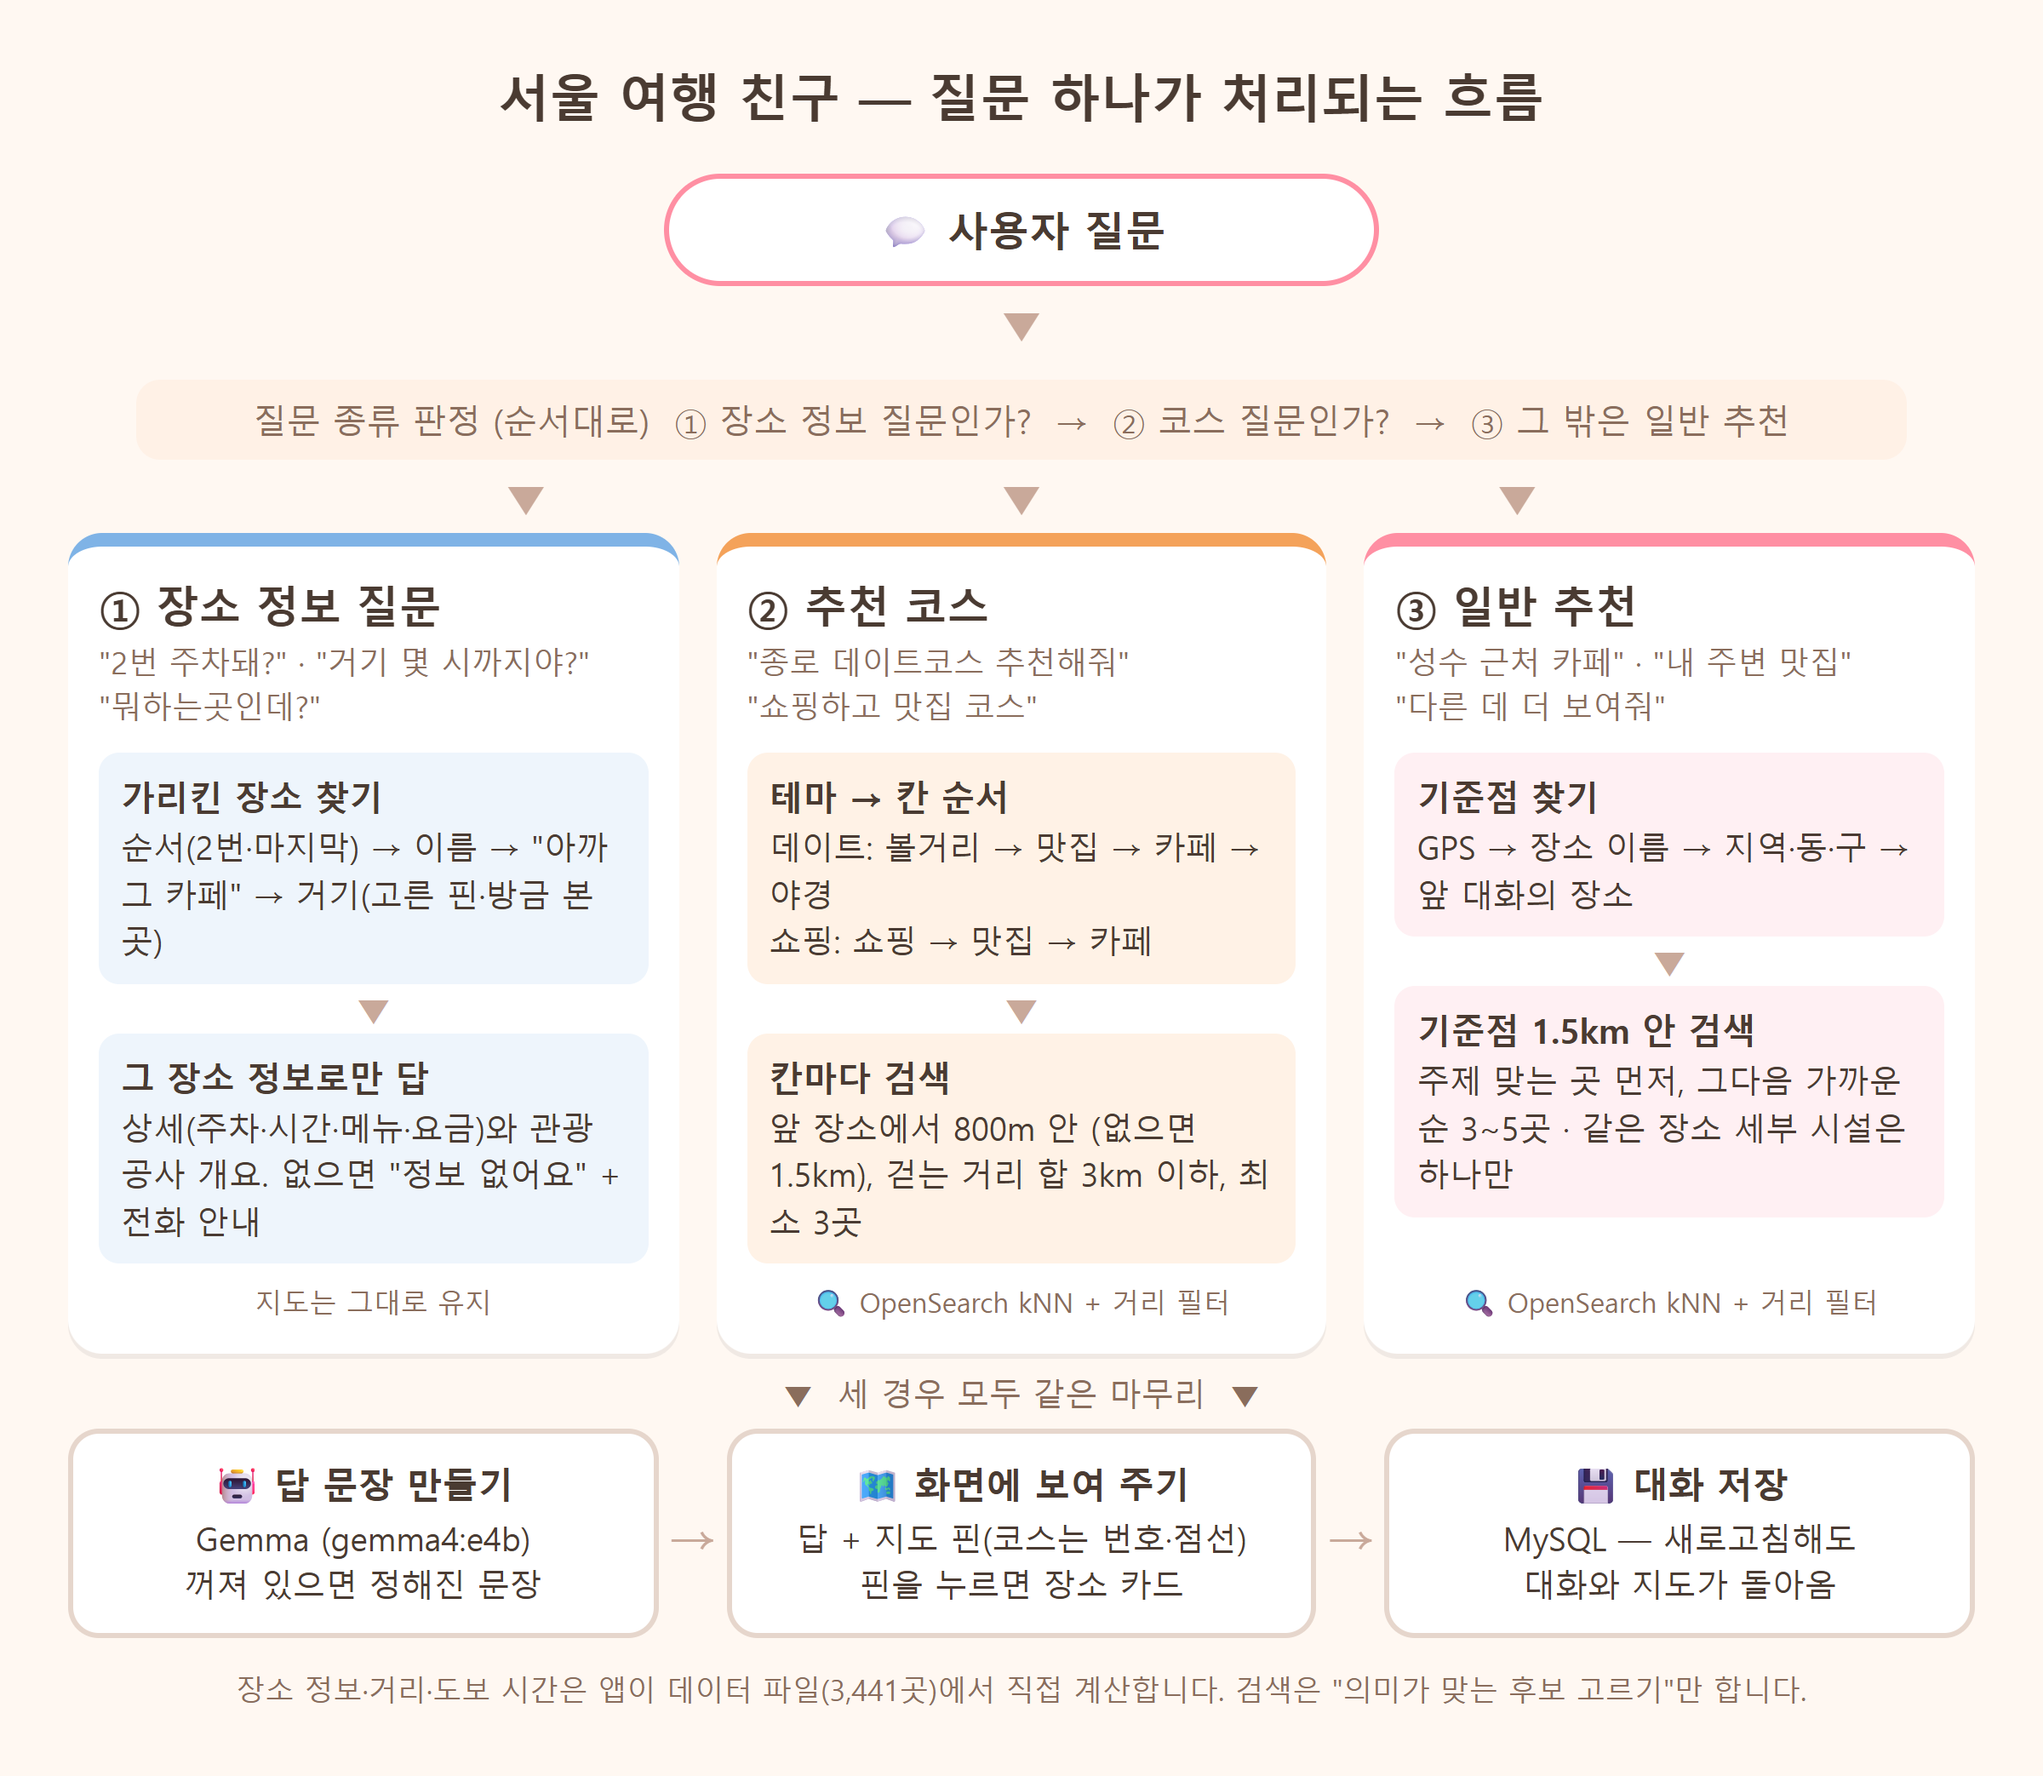
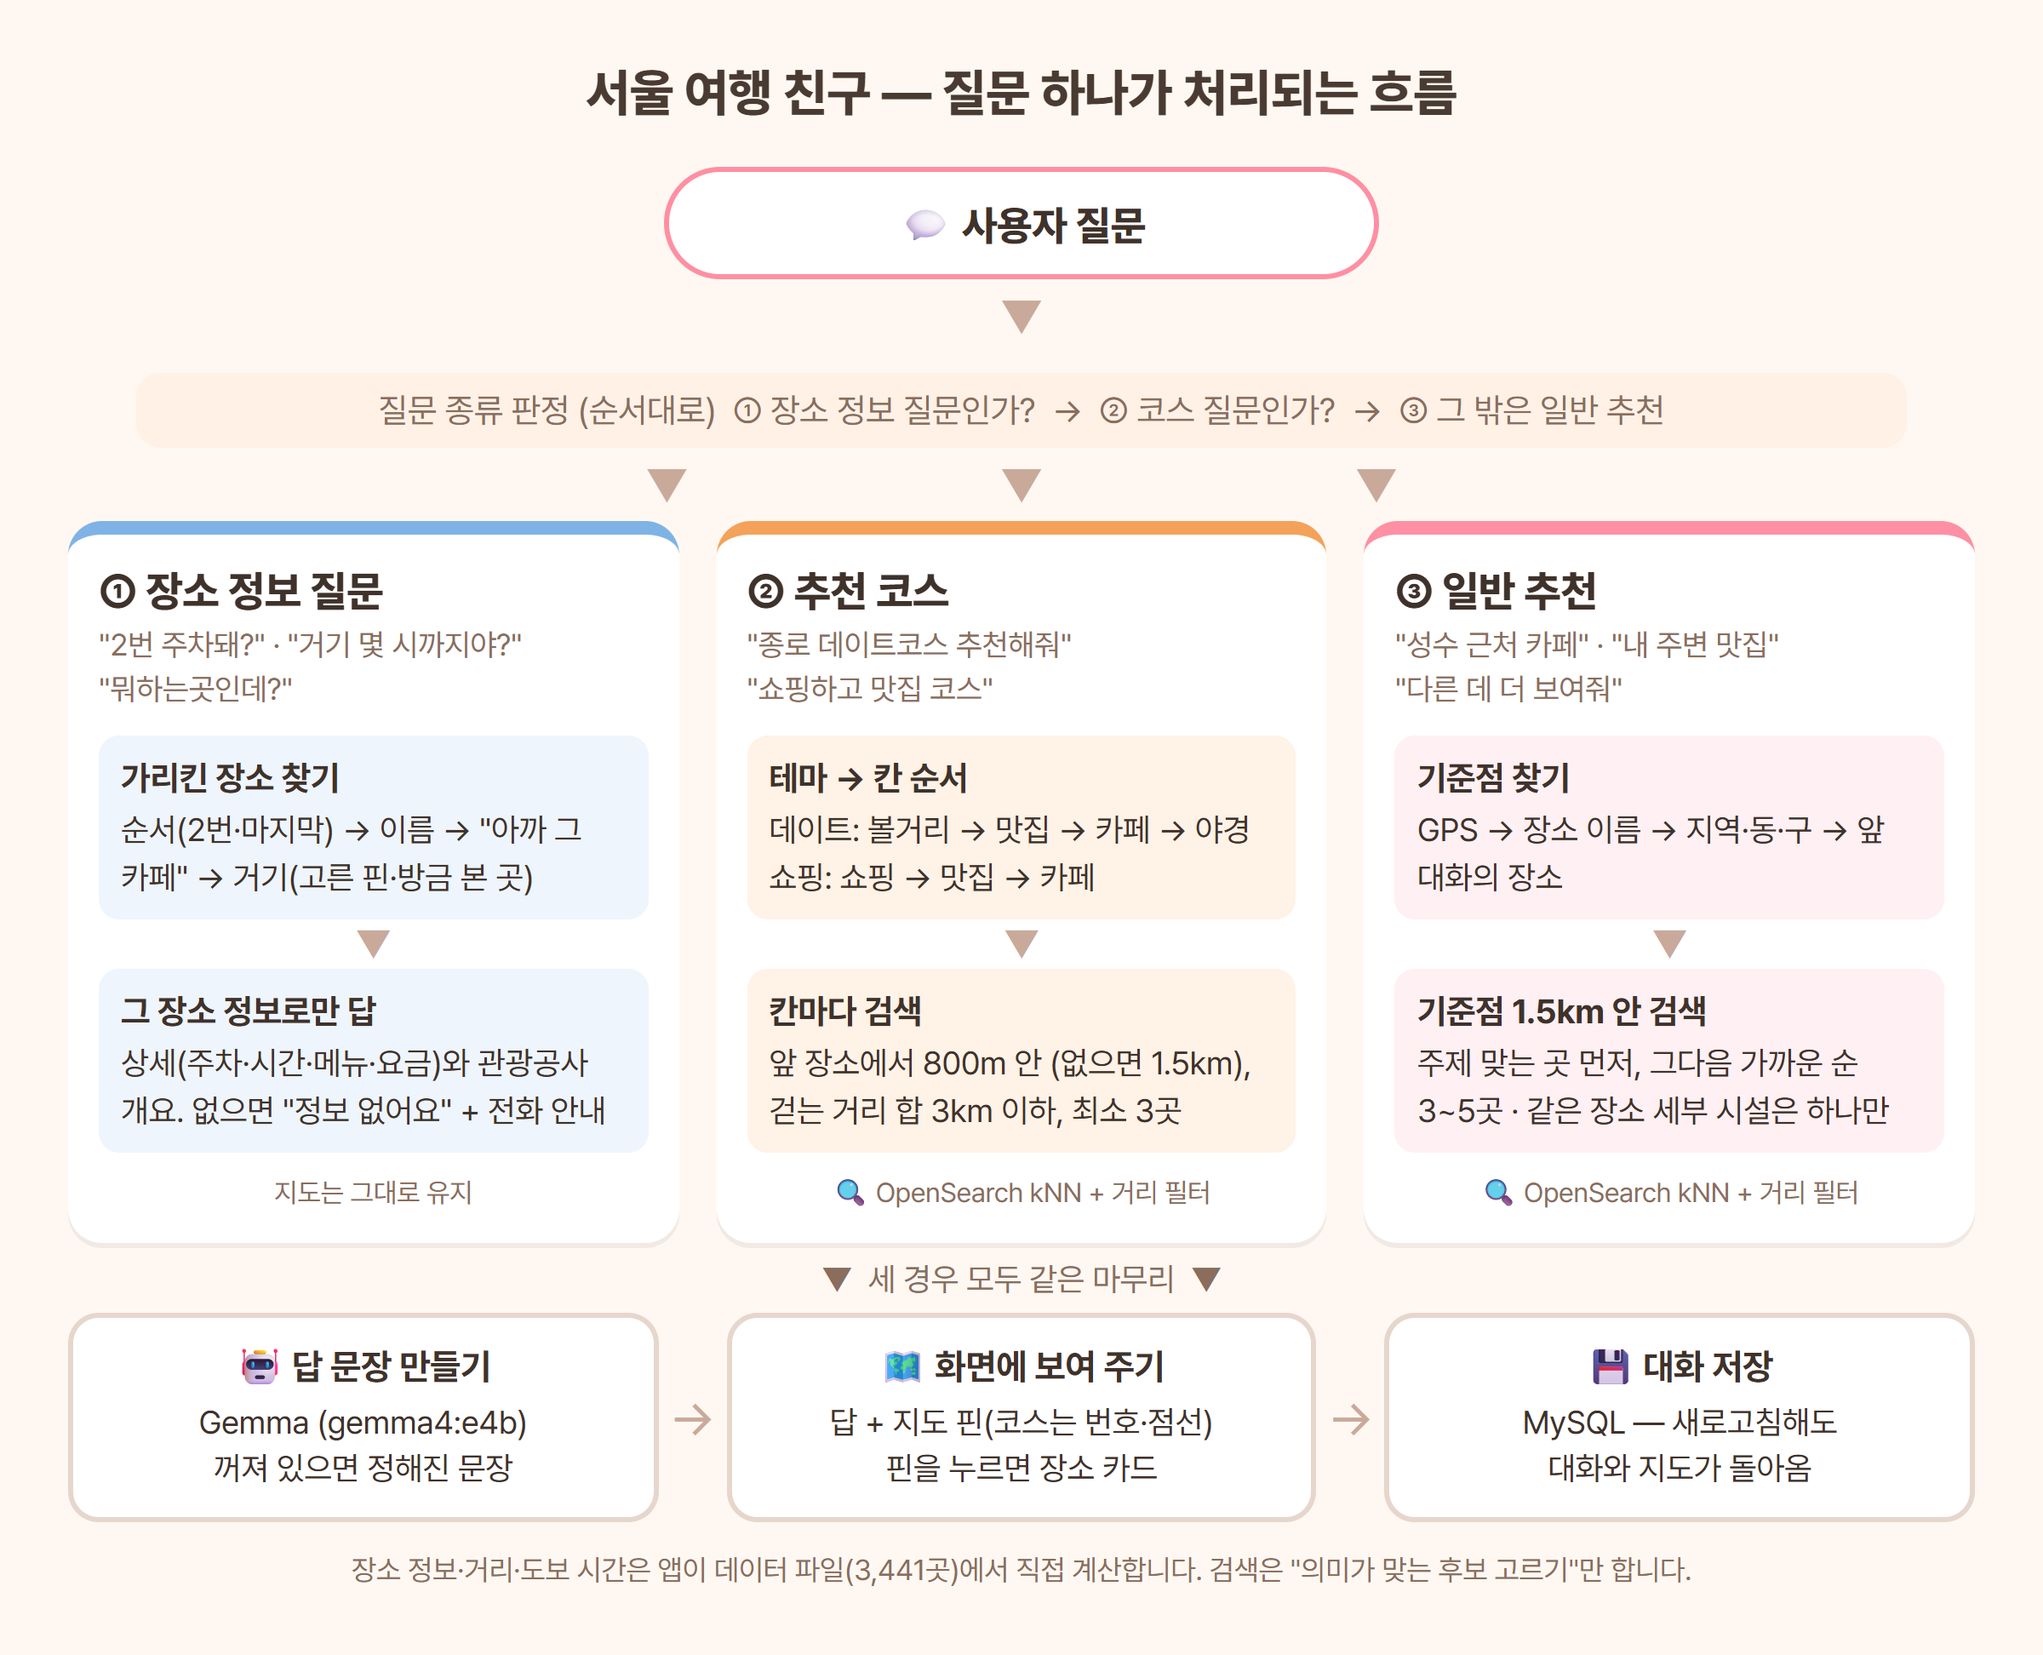
docs: README 시스템 구조도 그림으로, 두 그림 글꼴을 Pretendard(OFL)로

diff --git a/docs/images/architecture.html b/docs/images/architecture.html
@@ -1,0 +1,78 @@
+<!doctype html>
+<html lang="ko"><head><meta charset="utf-8">
+<!-- 글꼴: Pretendard (SIL Open Font License 1.1) -->
+<link rel="stylesheet" href="https://cdn.jsdelivr.net/gh/orioncactus/pretendard@v1.3.9/dist/web/static/pretendard.min.css">
+<style>
+  * { box-sizing: border-box; margin: 0; }
+  body { width: 1200px; padding: 36px 40px 40px; background: #fff8f2; font-family: "Pretendard", sans-serif; color: #3f322b; letter-spacing: -0.2px; word-break: keep-all; }
+  h1 { font-size: 30px; font-weight: 800; text-align: center; margin-bottom: 30px; }
+  .row { display: grid; grid-template-columns: 240px 100px 1fr 64px 300px; align-items: center; }
+  .card { background: #fff; border-radius: 20px; padding: 18px 20px; box-shadow: 0 3px 0 rgba(0,0,0,.05); }
+  .card h2 { font-size: 23px; font-weight: 800; margin-bottom: 6px; }
+  .card p { font-size: 17.5px; line-height: 1.5; color: #6b5548; }
+  .phone { border-top: 8px solid #ff8fa3; text-align: center; }
+  .phone .icon { font-size: 46px; margin: 4px 0 6px; }
+  .server { border-top: 8px solid #f4a25a; }
+  .mods { display: grid; grid-template-columns: 1fr 1fr; gap: 10px; margin-top: 12px; }
+  .mod { background: #fff2e6; border-radius: 12px; padding: 10px 12px; font-size: 16.5px; line-height: 1.4; }
+  .mod b { display: block; font-size: 17.5px; font-weight: 700; color: #3f322b; }
+  .mod code { font-family: "Pretendard", sans-serif; color: #b0703a; font-size: 14.5px; }
+  .arrow { text-align: center; color: #a8887a; font-size: 14px; font-weight: 600; line-height: 1.3; }
+  .arrow .a { font-size: 30px; color: #c9a99a; display: block; }
+  .stores { display: grid; gap: 14px; }
+  .store { background: #fff; border-radius: 16px; padding: 13px 16px; border-left: 8px solid #7fb3e6; box-shadow: 0 3px 0 rgba(0,0,0,.05); }
+  .store b { display: block; font-size: 20px; font-weight: 800; }
+  .store span { font-size: 16px; color: #6b5548; line-height: 1.45; }
+  .store.llm { border-left-color: #b39ddb; } .store.db { border-left-color: #8cc58c; }
+  .prep { margin-top: 34px; background: #fff; border: 3px dashed #e6d6cc; border-radius: 20px; padding: 18px 22px 20px; }
+  .prep h3 { font-size: 21px; font-weight: 800; margin-bottom: 12px; }
+  .prep h3 small { font-size: 16px; font-weight: 500; color: #8a6d5c; margin-left: 6px; }
+  .flow { display: grid; grid-template-columns: 1fr 34px 1fr 34px 1fr 34px 1fr; align-items: center; }
+  .chip { background: #f7f1ec; border-radius: 12px; padding: 11px 12px; text-align: center; font-size: 16.5px; line-height: 1.4; }
+  .chip b { display: block; font-size: 18px; font-weight: 700; }
+  .to { text-align: center; font-size: 24px; color: #c9a99a; }
+  .note { margin-top: 18px; font-size: 16.5px; color: #8a6d5c; text-align: center; }
+</style></head>
+<body>
+  <h1>서울 여행 친구 — 시스템 구조</h1>
+  <div class="row">
+    <div class="card phone">
+      <h2>휴대폰 브라우저</h2>
+      <div class="icon">📱</div>
+      <p>HTML · CSS · JavaScript<br>일러스트 지도 · 장소 카드<br>📍 GPS 위치</p>
+    </div>
+    <div class="arrow"><span class="a">⇄</span>/api/chat<br>/api/history</div>
+    <div class="card server">
+      <h2>FastAPI 서버</h2>
+      <p>질문 한 턴을 받아 판정 → 검색 → 답 → 저장</p>
+      <div class="mods">
+        <div class="mod"><b>대화 흐름</b>질문 종류 판정 <code>chat.py</code></div>
+        <div class="mod"><b>이어 묻기 해석</b>2번·거기·아까 그 카페 <code>dialog.py</code></div>
+        <div class="mod"><b>기준점 · 추천</b>GPS·장소·지역·구, 1.5km <code>center.py · recommend.py</code></div>
+        <div class="mod"><b>추천 코스</b>칸 순서·800m 동선 <code>course.py</code></div>
+        <div class="mod"><b>임베딩</b>ko-sroberta-multitask (768차원)</div>
+        <div class="mod"><b>장소 카탈로그</b>3,441곳 정보·좌표 (메모리)</div>
+      </div>
+    </div>
+    <div class="arrow"><span class="a">→</span></div>
+    <div class="stores">
+      <div class="store"><b>🔍 OpenSearch</b><span>kNN + 거리 필터로 후보 id 고르기<br>인덱스 seoul-tour-v3</span></div>
+      <div class="store llm"><b>🤖 Ollama</b><span>gemma4:e4b — 답 문장<br>꺼지면 정해진 문장으로</span></div>
+      <div class="store db"><b>💾 MySQL</b><span>chat_message — 대화 기록<br>새로고침해도 대화·지도 복원</span></div>
+    </div>
+  </div>
+
+  <div class="prep">
+    <h3>데이터 준비 <small>처음 한 번 · 새로 받을 때만 (API 하루 한도라 이어 받기)</small></h3>
+    <div class="flow">
+      <div class="chip"><b>한국관광공사 OpenAPI</b>목록 · 개요 · 상세 · 전화</div>
+      <div class="to">→</div>
+      <div class="chip"><b>수집 스크립트</b>fetch_* · enrich_* · build_merged</div>
+      <div class="to">→</div>
+      <div class="chip"><b>data/*.json</b>장소 3,441곳 (서버가 시작할 때 읽음)</div>
+      <div class="to">→</div>
+      <div class="chip"><b>build_index.py</b>임베딩해서 OpenSearch에 넣기</div>
+    </div>
+  </div>
+  <div class="note">OpenSearch는 "의미가 맞는 후보 고르기"만 하고, 장소 정보·거리·도보 시간은 서버가 카탈로그에서 계산합니다.</div>
+</body></html>

diff --git a/docs/images/flow.html b/docs/images/flow.html
@@ -1,18 +1,20 @@
 <!doctype html>
 <html lang="ko"><head><meta charset="utf-8">
+<!-- 글꼴: Pretendard (SIL Open Font License 1.1) -->
+<link rel="stylesheet" href="https://cdn.jsdelivr.net/gh/orioncactus/pretendard@v1.3.9/dist/web/static/pretendard.min.css">
 <style>
   * { box-sizing: border-box; margin: 0; }
-  body { width: 1200px; padding: 36px 40px 40px; background: #fff8f2; font-family: "Malgun Gothic", "Apple SD Gothic Neo", sans-serif; color: #4a3b32; }
-  h1 { font-size: 30px; text-align: center; margin-bottom: 26px; color: #4a3b32; }
-  .q { margin: 0 auto; width: 420px; text-align: center; background: #fff; border: 3px solid #ff8fa3; border-radius: 999px; padding: 14px; font-size: 24px; font-weight: 700; }
+  body { width: 1200px; padding: 36px 40px 40px; background: #fff8f2; font-family: "Pretendard", sans-serif; color: #3f322b; letter-spacing: -0.2px; word-break: keep-all; }
+  h1 { font-size: 30px; font-weight: 800; text-align: center; margin-bottom: 26px; color: #4a3b32; }
+  .q { margin: 0 auto; width: 420px; text-align: center; background: #fff; border: 3px solid #ff8fa3; border-radius: 999px; padding: 14px; font-size: 24px; font-weight: 800; }
   .judge { margin: 18px auto 0; width: 1040px; text-align: center; font-size: 20px; color: #8a6d5c; background: #fff1e6; border-radius: 14px; padding: 10px; }
   .arrow { text-align: center; font-size: 26px; color: #c9a99a; line-height: 1.2; margin: 6px 0; }
   .lanes { display: grid; grid-template-columns: repeat(3, 1fr); gap: 22px; }
   .lane { display: flex; flex-direction: column; border-radius: 20px; padding: 18px 18px 20px; background: #fff; box-shadow: 0 3px 0 rgba(0,0,0,.06); }
-  .lane h2 { font-size: 25px; margin-bottom: 4px; }
+  .lane h2 { font-size: 25px; font-weight: 800; margin-bottom: 4px; }
   .ex { font-size: 18px; color: #8a6d5c; margin-bottom: 14px; min-height: 52px; line-height: 1.4; }
   .step { font-size: 19px; line-height: 1.45; background: #fafafa; border-radius: 12px; padding: 11px 13px; }
-  .step b { display: block; font-size: 20px; margin-bottom: 2px; }
+  .step b { display: block; font-size: 20px; font-weight: 700; margin-bottom: 2px; }
   .down { text-align: center; color: #c9a99a; font-size: 22px; line-height: 1.3; }
   .info { border-top: 8px solid #7fb3e6; } .info .step { background: #eef5fc; }
   .course { border-top: 8px solid #f4a25a; } .course .step { background: #fff2e6; }
@@ -22,7 +24,7 @@
   .to { text-align: center; font-size: 30px; color: #c9a99a; }
   .merge { text-align: center; font-size: 19px; color: #8a6d5c; margin: 10px 0 8px; }
   .box { background: #fff; border: 3px solid #e6d6cc; border-radius: 18px; padding: 14px 16px; font-size: 19px; line-height: 1.45; text-align: center; }
-  .box b { display: block; font-size: 21px; margin-bottom: 3px; }
+  .box b { display: block; font-size: 21px; font-weight: 700; margin-bottom: 3px; }
   .note { margin-top: 18px; font-size: 17px; color: #8a6d5c; text-align: center; }
 </style></head>
 <body>

diff --git a/README.md b/README.md
@@ -67,7 +67,7 @@
   <img src="docs/images/flow.png" alt="질문 → 종류 판정 → ① 장소 정보 질문 / ② 추천 코스 / ③ 일반 추천 → 답 문장·화면·대화 저장" width="100%">
 </p>
 
-<sub>그림 원본: `docs/images/flow.html` (브라우저로 열어 고친 뒤 캡처)</sub>
+<sub>그림 원본: `docs/images/flow.html` (브라우저로 열어 고친 뒤 캡처) · 글꼴 [Pretendard](https://github.com/orioncactus/pretendard) (SIL Open Font License)</sub>
 
 - **검색은 "후보 고르기"만:** OpenSearch는 질문과 의미가 가까운 장소 id만 돌려주고, 장소 정보·거리·도보 시간은 앱이 데이터 파일(카탈로그)에서 계산합니다.
 - **반경 안에서 검색:** kNN에 거리 필터를 함께 걸어, 장소가 많은 동네에서도 가까운 곳이 빠지지 않습니다.
@@ -75,16 +75,11 @@
 
 ## 시스템 구조
 
-```mermaid
-flowchart LR
-    U[휴대폰 브라우저<br>HTML·CSS·JS] -- POST /api/chat --> S[FastAPI 서버]
-    S --> O[(OpenSearch<br>kNN·geo 필터)]
-    S --> M[(MySQL<br>chat_message)]
-    S --> L[Ollama<br>gemma4:e4b]
-    S --> E[임베딩<br>ko-sroberta-multitask]
-    P[관광공사 OpenAPI] -. 수집 스크립트 .-> D[data/*.json] -. build_index .-> O
-    D --> S
-```
+<p align="center">
+  <img src="docs/images/architecture.png" alt="휴대폰 브라우저 ⇄ FastAPI 서버 → OpenSearch·Ollama·MySQL, 데이터 준비: 관광공사 OpenAPI → 수집 스크립트 → data/*.json → build_index" width="100%">
+</p>
+
+<sub>그림 원본: `docs/images/architecture.html` · 글꼴 [Pretendard](https://github.com/orioncactus/pretendard) (SIL Open Font License)</sub>
 
 ## 데이터
 
